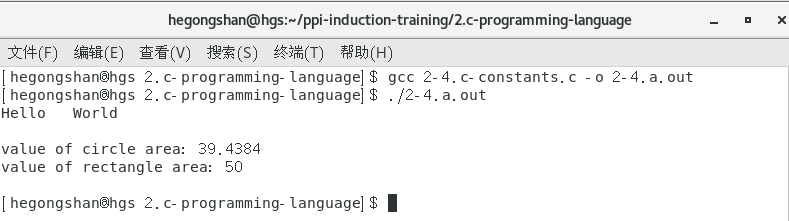
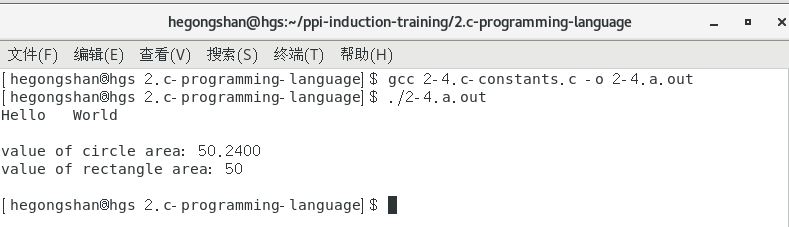
fix:fix a bug in C constants

diff --git a/2.c-programming-language/2-4.c-constants.c b/2.c-programming-language/2-4.c-constants.c
@@ -8,7 +8,7 @@ int main()
 	printf("Hello\tWorld\n\n");
 
 	// 1.测试#define
-	float circleArea = R * PI * PI;
+	float circleArea = PI * R * R;
 	printf("value of circle area: %.4f\n", circleArea);
 
 	// 2.测试const
